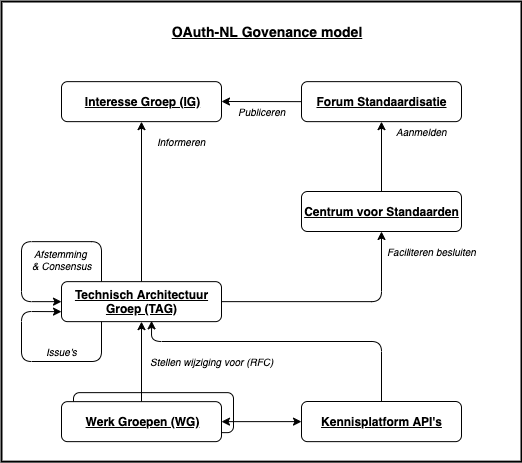
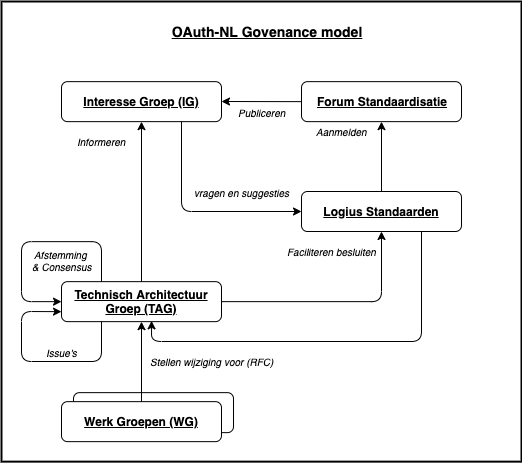
document en model bijgewerkt op basis van feedback Logius collega's

diff --git a/OAuth beheermodel v1.0.md b/OAuth beheermodel v1.0.md
@@ -2,13 +2,15 @@
 
 ## Leeswijzer
 
-Dit document beschrijft hoe Logius, afdeling Standaarden (hierna: Logius) de OAuth NL profiel standaard beheert en hoe de bijbehorende governance is ingericht. In dit document wordt verder OAuth-NL gebruikt als afkorting voor de "NL GOV Assurance profile for OAuth 2.0" standaard.
+Dit document beschrijft hoe Logius, afdeling Standaarden (hierna: Logius) de OAuth-NL profiel standaard beheert en hoe de bijbehorende governance is ingericht. In dit document wordt verder OAuth-NL gebruikt als afkorting voor de "NL GOV Assurance profile for OAuth 2.0" standaard.
 
-## De NL GOV Assurance profile for OAuth 2.0 standaard kortweg OAuth-NL
+## De NL GOV Assurance profile for OAuth 2.0 standaard (OAuth-NL)
 
 De OAuth-NL standaard omvat een specifiek profiel voor het OAuth 2.0 profiel en is bedoeld om de beveiliging te verbeteren, grotere interoperabiliteit te waarborgen en bij te dragen aan een gestructureerde toepassing door Nederlandse Overheids organisaties.
 
 De OAuth-NL is gebaseerd op het [International Government Assurance Profile (iGov) for OAuth 2.0 - Draft 03’ (Kortweg: het iGov-profile)](https://openid.net/specs/openid-igov-oauth2-1_0.html) van de "OpenID Foundation".  
+
+Het nut en de werking van de standaard zijn duidelijk berschreven op de website van het Forum standaardisatie en voor de leesbaarheid hieronder over genomen:
 
 ### Nut
 
@@ -24,7 +26,9 @@ De OAuth-NL is gebaseerd op het [International Government Assurance Profile (iGo
 ### Status
 
 De actuele versie van de OAuth-NL is v1.0. Deze versie is op 09-07-2020 door het OBDO vastgesteld op advies van het Forum Standaardisatie.  
-De status van de standaard is ‘Verplicht (pas toe leg uit)’. Dit houdt kort gezegd in dat Nederlandse overheden en instellingen uit de (semi) publieke sector verplicht zijn deze standaard toe te passen op het moment dat zij REST API’s gaan gebruiken voor het ontsluiten van overheidsinformatie en/of functionaliteit naar gebruikers van websites, apps of webapplicaties. Zie voor meer informatie over het [pas toe of leg uit beleid.](https://www.forumstandaardisatie.nl/node/229)
+De status van de standaard is ‘Verplicht (pas toe leg uit)’. Dit houdt kort gezegd in dat Nederlandse overheden en instellingen uit de (semi) publieke sector verplicht zijn deze standaard toe te passen op het moment dat zij REST API’s gaan gebruiken voor het ontsluiten van overheidsinformatie en/of functionaliteit naar gebruikers van websites, apps of webapplicaties. Dit is ook specifiek beschreven in het toepassingsgebied van de standaard:
+
+> NL GOV Assurance Profile for OAuth 2.0 moet worden toegepast bij applicaties waarbij gebruikers of ‘resource owners’ impliciet of expliciet toestemming geven aan een dienst van een derde om namens deze toegang te krijgen tot gegevens via een REST API waarvoor ze recht van toegang hebben. Zie voor meer informatie over het [pas toe of leg uit beleid.](https://www.forumstandaardisatie.nl/node/229)
 
 - De verplichting is gepubliceerd door het Forum Standaardisatie op:  
 <https://www.forumstandaardisatie.nl/open-standaarden/nl-gov-assurance-profile-oauth-20>
@@ -80,7 +84,7 @@ Deze doelstelling wordt onderschreven door een breed scala aan partijen die deel
 Bij het beheer van een open standaard hoort een open governance en een open procedure voor belanghebbenden om te kunnen participeren in het beheer. Logius, neemt hierin de rol van onafhankelijke, duurzame beheerpartij en facilitator. Bij het beheer van de OAuth-NL standaard worden verschillende gremia onderscheiden die gezamenlijk invulling geven aan de governance:  
 
 1. OAuth community (Interesse Groep - IG)  
-Dit is het meest operationele gremium waarin iedere belangstellende/belanghebbende vragen kan stellen over de OAuth-NL standaard en suggesties kan doen voor de doorontwikkeling van de standaard. Dergelijke vragen en suggesties worden door Logius verzameld en voorgelegd aan het Technisch Overleg en als issue geregistreerd in de repositorie van de standaard.  
+Dit is het meest operationele gremium waarin iedere belangstellende/belanghebbende vragen kan stellen over de OAuth-NL standaard en suggesties kan doen voor de doorontwikkeling van de standaard. Dergelijke vragen worden door Logius beantwoord en suggesties worden door Logius verzameld, als issue geregistreerd in de repositorie van de standaard en voorgelegd aan het Technisch Overleg.  
 2. Technisch Overleg (Technische Architectuur Groep – TAG)  
 Het Technisch Overleg is een periodieke bijeenkomst van de Technische Architectuur Groep (TAG) waarbij de vragen en doorontwikkelwensen m.b.t. de OAuth-NL worden doorgenomen, geprioriteerd en worden uitgewerkt. Daarnaast wordt door de leden de releaseplanning en de roadmap opgesteld. Deelname aan de TAG is vrij voor eenieder die een belang heeft bij de standaard (overheid, wetenschap en markt)  
 3. Tactisch overleg OAuth-NL  
@@ -89,15 +93,15 @@ Dit gremium is verantwoordelijk voor het vaststellen van de doorontwikkel-roadma
 Dit is het hoogst ambtelijke gremium dat besluit over major releases van de standaard, het beheermodel van de standaard en externe publicaties over releases en van het standaardenbeleid. Op dit moment wordt het OBDO louter ‘gevoed’ door Forum Standaardisatie en is de focus voornamelijk het bestendigen van major releases van de standaard. Op het moment dat het tactische gremium is ingevuld, zal het OBDO waarschijnlijk een breder scala aan onderwerpen langs krijgen ter bestendiging.  
 
 > *N.B. Het tactisch overleg OAuth-NL gremium is momenteel nog niet actief, waardoor Logius bij wijzigingen aan de standaard, de nieuwe versie voorlegt aan het Forum Standaardisatie, voor het borgen van een zo breed mogelijke afstemming met verschillende belanghebbenden.*  
-> *N.B. De definitieve invulling van de tactische en strategische laag (OBDO) wordt eind 2021 duidelijk.*  
+> *N.B. De definitieve invulling van de tactische en strategische laag (OBDO) wordt in 2022 duidelijk.*  
 
 In tabelvorm:  
 
 |**Gremium**|**Accent**|**Rol participant**|**Ondersteuning door beheerder (Logius)**|
 |---|---|---|---|
-|**Community** <br> (omvang onbeperkt)|Inhoud – delen|Samen met alle leden van de Interesse Groep (IG):  <br>1. Volgen van ontwikkelingen.  <br>2. Leveren van input voor de doorontwikkeling van de standaard.|1. Informatie m.b.t. specificaties en beheer open delen met community.  <br>2. Deelnemen aan  stuurgroep en werkgroepen van Kennisplatform API’s.| 
+|**Community** <br> (omvang onbeperkt)|Inhoud – delen|Samen met alle leden van de Interesse Groep (IG):  <br>1. Volgen van ontwikkelingen.  <br>2. Leveren van suggesties voor de doorontwikkeling van de standaard.|1. Informatie m.b.t. specificaties en beheer open delen met community.  <br>2. Beantwoorden van vragen en verwerken van suggesties.|
 |**Technisch Overleg** <br>(Operationeel, 4x per jaar)|Inhoud - afstemmen| Samen met andere experts van de Technische Architectuur Groep (TAG):  <br>1. Inhoudelijk ontwikkelen van standaard onderdelen en bijbehorende documentatie.  <br>2. Voorbereiden van de release-planning.  <br>3. Prioriteiten stellen voor de ontwikkeling, roadmap van nieuwe releases van de standaarden.  <br>4. Goedkeuring van aanpassingen op de standaard.  |1. Analyseren, ontwerpen en uitwerken van specificaties.  <br>2. Volgen en beïnvloeden van aanpalende standaarden.  <br>3. Organiseren bijeenkomsten.  <br>4. Opstellen en verspreiden notulen. <br>5. Beschikbaar stellen specificaties.|
-|**Tactisch/Strategisch** <br>(4x per jaar)|Prioritering proces en uitwerken strategisch advies|Samen met andere participanten:<br>1. Vaststellen roadmap van de standaard. <br>2. Voorportaal OBDO. <br>3. Vaststellen minor releases van de standaard.|1. Analyseren, ontwerpen en uitwerken van beleidszaken, (release)planning.|  
+|**Tactisch/Strategisch** <br>(4x per jaar)|Prioritering proces en uitwerken strategisch advies|Samen met andere participanten:<br>1. Vaststellen roadmap van de standaard. <br>2. Voorportaal OBDO. <br>3. Vaststellen minor releases van de standaard.|1. Analyseren, ontwerpen en uitwerken van beleidszaken, (release)planning.|
 |**OBDO** <br> (Strategisch besluitvormend, 2x per jaar)|Bestuurlijk besluit|Samen met andere bestuurders: <br>1. Vaststellen major releases van de standaard. <br>2.Vaststellen beheermodel van de standaard. <br>3. Vaststellen externe publicaties over het standaardenbeleid en releases.|1.Begeleiding van de Adviesraad en inbreng via secretariaat OBDO. <br>2. Publiceren standaarden en andere Standaard-informatie.|
 > Figuur 3. Overheidsbreed Beleidsoverleg Digitale Overheid
 
@@ -109,7 +113,7 @@ In alle overleggremia vindt besluitvorming plaats op basis van consensus. Mocht 
 
 Uitbreidingen en aanpassingen in de standaard komen tot stand door participatie van de verschillende belanghebbenden. Belanghebbenden kunnen op vier manieren participeren aan het wijzigings- en besluitvormingsproces:  
 
-1. Als lid van de Community van het Kennisplatform / de Interesse Groep (IG)  
+1. Als lid van de Interesse Groep (IG)  
 2. Als lid van de Technische Architectuur Groep (TAG)  
 3. Als lid van het Tactisch overleg  
 4. Als lid van het OBDO
@@ -133,7 +137,7 @@ Het beheer van de standaard wordt gefinancierd door min. BZK voor een initiële 
 
 ## Community
 
-De community / Interesse Groep bestaat uit eenieder die belanghebbende of belangstellende is m.b.t. de standaard. Deelname aan de community kent geen drempels of restricties. Leden van de community kunnen alle informatie m.b.t. de standaard en het beheer daarvan inzien via de website en via verschillende kanalen issues of RFC&#39;s melden. Daarnaast kunnen community leden reageren op openbare consultaties en onder bepaalde voorwaarden deelnemen aan de Technische Architectuur Groep (zie 2.2.3).
+De community / Interesse Groep bestaat uit eenieder die belanghebbende of belangstellende is m.b.t. de standaard. Deelname aan de community kent geen drempels of restricties. Leden van de community kunnen alle informatie m.b.t. de standaard en het beheer daarvan inzien via de website en via verschillende kanalen issues of RFC&#39;s melden. Daarnaast kunnen community leden reageren op openbare consultaties en onder bepaalde voorwaarden deelnemen aan de Technische Architectuur Groep (zie paragraaf [deelname](#Deelname)).
 
 ## Architectuur
 
@@ -192,7 +196,7 @@ Uitgesloten van alle bovenstaande zijn rechten verbonden aan de standaarden, pro
 
 ## Kwaliteitsbeleid en benchmarking  
 
-Zoals gezegd wordt het beheer van de OAuth-NL standaard volledig open ingevuld (zie ook 1.3 en 2.2.) Dit borgt dat zoveel mogelijk belangstellenden en belanghebbenden betrokken zijn bij wijzigingen en besluitvorming die wijzigingen.
+Zoals gezegd wordt het beheer van de OAuth-NL standaard volledig open ingevuld (zie ook de paragraaf [Bomos](#Bomos) en [Governance](#Governance)) Dit borgt dat zoveel mogelijk belangstellenden en belanghebbenden betrokken zijn bij wijzigingen en besluitvorming die wijzigingen.
 
 ## Adoptie en erkenning  
 
@@ -210,7 +214,7 @@ De OAuth-NL standaard heeft de &#39;pas toe of leg uit&#39; -status van Forum St
 RFC&#39;s kunnen binnen komen via verschillende kanalen:
 
 1. Rechtstreeks bij Logius, tijdens overleggen, via de website of mail
-2. Bij de werkgroep Security van het Kennisplatform API&#39;s, tijdens overleggen, via de website of mail
+2. Bij de werkgroepen, tijdens overleggen, via de website of mail
 
 RFC&#39;s worden als issue&#39;s geregistreerd in de repository van de OAuth-NL standaard op Github. [https://github.com/Geonovum/KP-APIs/issues](https://github.com/Geonovum/KP-APIs/issues) of direct in de repository van de OAuth-NL standaard op Github [https://github.com/Logius-standaarden/OAuth-NL-profiel/issues](https://github.com/Logius-standaarden/OAuth-NL-profiel/issues)
 
@@ -227,8 +231,7 @@ De procedure van RCF naar daadwerkelijke wijziging ziet er als volgt uit:
 - RFC worden na vaststelling in het TO Openbaar geconsulteerd
 - Na vaststelling volgt publicatie van de nieuwe versie van standaard
 
-> N.B. Zolang het Centrum voor Standaarden nog geen predicaat &quot;Uitstekend beheer&quot; heeft ontvangen van Forum Standaardisatie, zullen nieuwe versies na vaststelling in het TO aan Forum Standaardisatie worden voorgelegd ter beoordeling.  
-> N.B.2. Het technisch overleg is momenteel samengevoegd met het structurele overleg van de werkgroep security van het Kennisplatform (zie 2.2.3)
+> N.B. Zolang het Logius afdeling standaarden nog geen predicaat &quot;Uitstekend beheer&quot; heeft ontvangen van Forum Standaardisatie, zullen nieuwe versies na vaststelling in het TO aan Forum Standaardisatie worden voorgelegd ter beoordeling.  
 
 Dit is schematisch weergegeven in het onderstaande governance model:  
 
@@ -237,7 +240,7 @@ Dit is schematisch weergegeven in het onderstaande governance model:
 
 ## Status van de standaard
 
-Logius, Centrum voor standaarden onderscheid vier statussen die de OAuth-NL standaard kan hebben:
+Logius, afdeling standaarden onderscheid vier statussen die de OAuth-NL standaard kan hebben:
 
 | **Afkorting**|**Status van de standaard**|**Beschrijving van de status** |
 | --- | --- | --- |
@@ -264,7 +267,7 @@ De laatste versie van de OAuth-NL is gepubliceerd op:<br>
 [https://publicatie.centrumvoorstandaarden.nl/api/oauth/](https://publicatie.centrumvoorstandaarden.nl/api/oauth/)
 
 De laatste concept versie van de standard is gepubliceerd op:<br>
-[https://logius-standaarden.github.io/API-Design-Rules/](https://logius-standaarden.github.io/API-Design-Rules/)
+[https://logius-standaarden.github.io/OAuth-NL-profiel/](https://logius-standaarden.github.io/OAuth-NL-profiel/)
 
 Het beheermodel is gepubliceerd op:<br>
 [Logius-standaarden/OAuth-Beheermodel (github.com)](https://github.com/Logius-standaarden/OAuth-Beheermodel)
@@ -276,14 +279,14 @@ De vergaderstukken zijn gepubliceerd op:<br>
 
 ## Opleiding en advies
 
-Logius biedt momenteel geen opleiding aan, maar borgt dat de informatie m.b.t. de standaard altijd, zonder drempels, toegankelijk is. Bovendien kunnen geïnteresseerden via verschillende kanalen contact opnemen met Logius in geval van vragen of opmerkingen. Zie hiervoor 5.2 Helpdesk.  
+Logius biedt momenteel geen opleiding aan, maar borgt dat de informatie m.b.t. de standaard altijd, zonder drempels, toegankelijk is. Bovendien kunnen geïnteresseerden via verschillende kanalen contact opnemen met Logius in geval van vragen of opmerkingen. Zie hiervoor de paragraaf [helpdesk](#Helpdesk).  
 Aanvullend organiseert Kennisplatform API&#39;s regelmatig overleggen en seminars m.b.t. de Nederlandse API Strategie waar de OAuth-NL standaard een onderdeel van is. Zie hiervoor [www.apigov.nl](http://www.apigov.nl/).
 
 ## Helpdesk
 
 Logius biedt ondersteuning en advies via verschillende kanalen:
-- Online: als reactie op issue&#39;s in de Github van het Kennisplatform:<br>
-[Issues · Geonovum/KP-APIs (github.com)](https://github.com/Geonovum/KP-APIs/issues)
+- Online: als reactie op issue&#39;s in de Github van de standaard:<br>
+[Issues · Logius-standaarden/OAuth-NL-profiel (github.com)](https://github.com/Logius-standaarden/OAuth-NL-profiel/issues)
 - Per mail: [api@logius.nl](mailto:api@logius.nl)
 - Telefonisch: 0900 - 555 45 55
 - Per post: Logius, Postbus 96810; 2509 JE Den Haag, (t.a.v. CvS).
@@ -309,7 +312,7 @@ Tot slot is Logius promotor van de standaard. Zowel intern voor de toepassing va
 
 Als een nieuwe versie van de OAuth-NL standaard de status "In Gebruik" heeft, worden verschillende zaken gepubliceerd.  
 Logius publiceert altijd de volledige specificatie van de standaard op een deel van zijn website. Daarnaast wordt een persbericht uitgegeven, waarin de publicatie van de nieuwe release van de standaard wordt aangekondigd.  
-Aanvullend publiceert Logius alle genoemde documentatie zoals genoemd bij 4.5.
+Aanvullend publiceert Logius alle genoemde documentatie zoals genoemd in de paragraaf [documentatie](#Documentatie).
 
 ## Klachtenafhandeling
 
